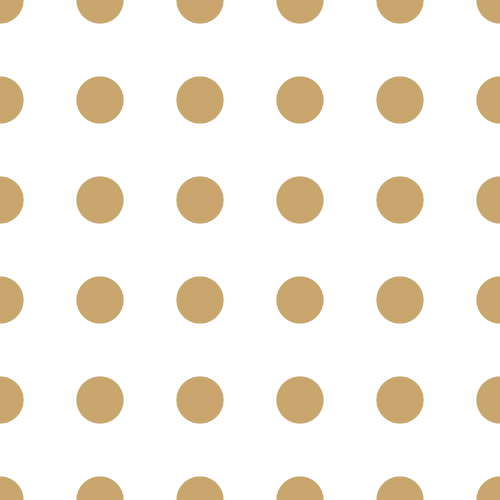
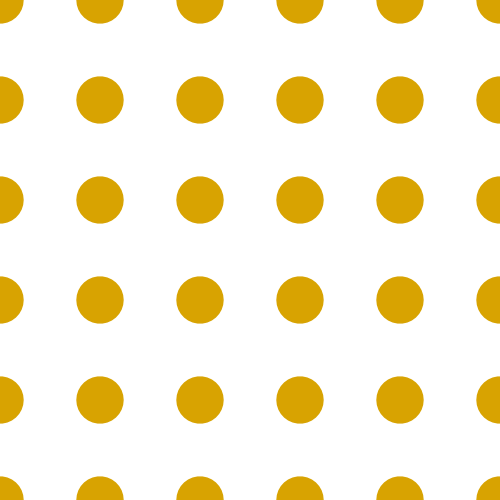
chore: Update Pavlovian stimuli color

diff --git a/PIT.html b/PIT.html
@@ -17,6 +17,7 @@
   <script src="jspsych/plugin-html-keyboard-response.js"></script>
   <script src="jspsych/plugin-html-button-response.js"></script>
   <script src="jspsych/plugin-instructions.js"></script>
+  <script src="jspsych/plugin-preload.js"></script>
   <script src="jspsych/plugin-fullscreen.js"></script>
   <script src="jspsych/plugin-free-sort.js"></script>
   <script src="utils.js"></script>
@@ -43,7 +44,20 @@
     window.prolificPID = jsPsych.data.getURLVariable('PROLIFIC_PID');
     window.debug = prolificPID.includes("debug");
   // Add the comparison task to the main experiment timeline
+  const preload = {
+            type: jsPsychPreload,
+            images: [
+                "1penny.png", "1pennybroken.png",
+                "1pound.png", "1poundbroken.png",
+                "50pence.png", "50pencebroken.png",
+                "safe.png",
+                "1p-num.png", "2p-num.png", "5p-num.png", "10p-num.png", "piggy-bank.png", "ooc_2p.png", "piggy-tail2.png", "saturate-icon.png", "tail-icon.png",
+                "PIT1.png", "PIT2.png", "PIT3.png", "PIT4.png", "PIT5.png", "PIT6.png", "occluding_clouds.png"
+            ].map(s => "imgs/" + s),
+            post_trial_gap: 800
+        };
   const PITtimeline = [
+    preload,
     // ... (previous timeline components)
     PITinstructions,
     PITtrials,
